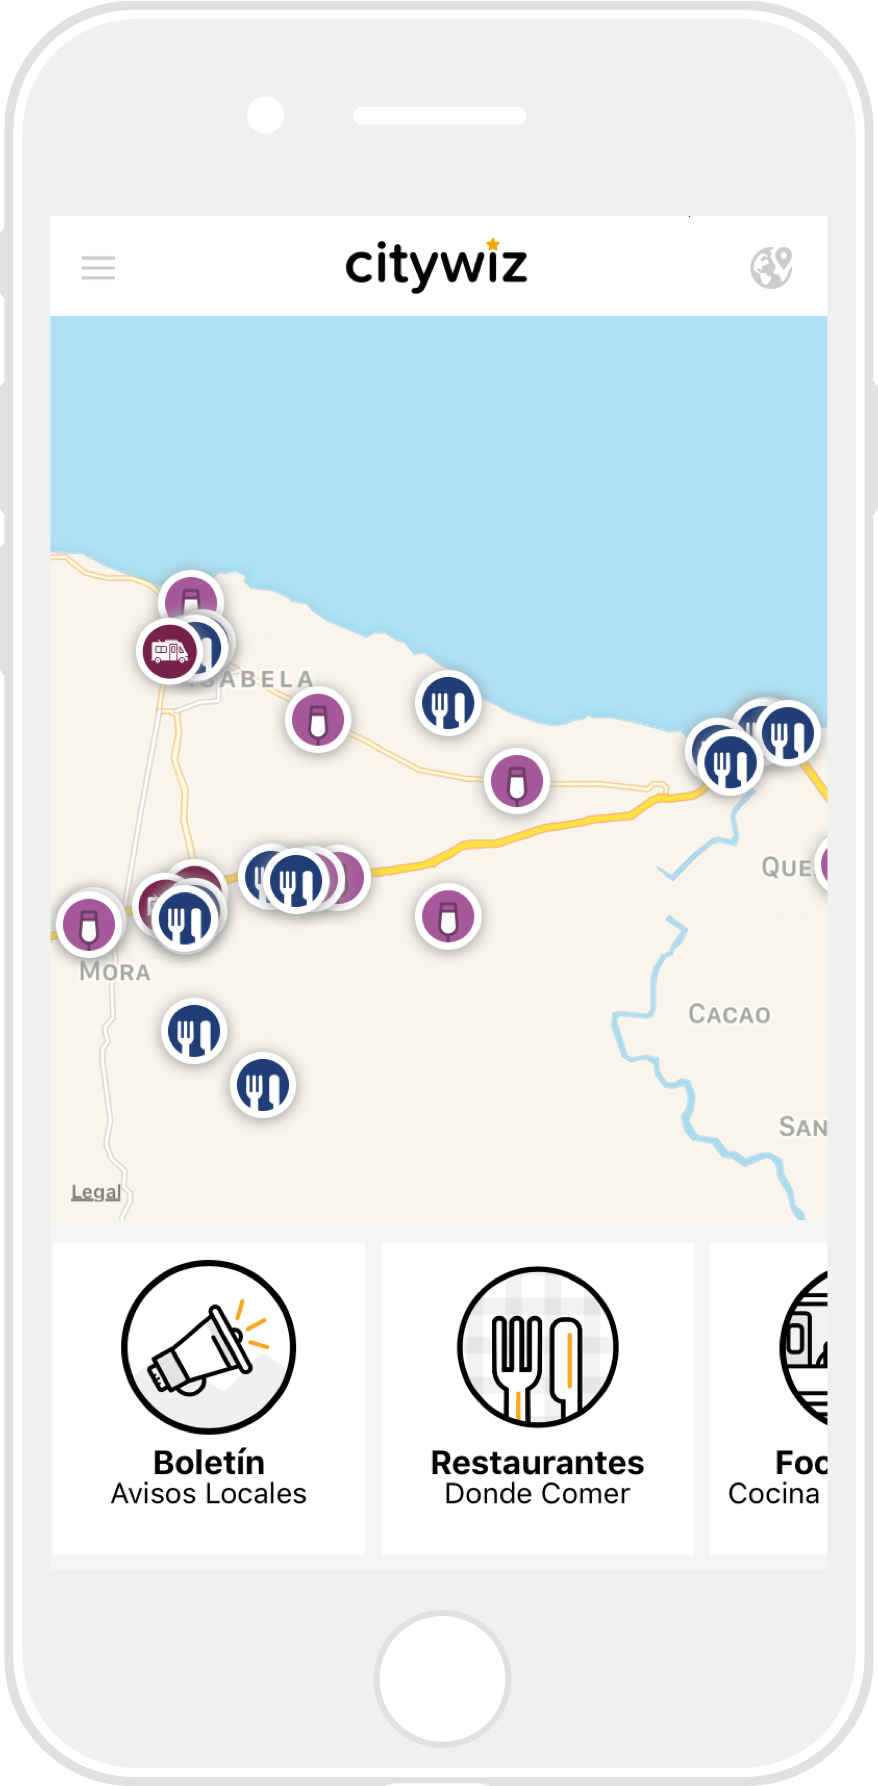
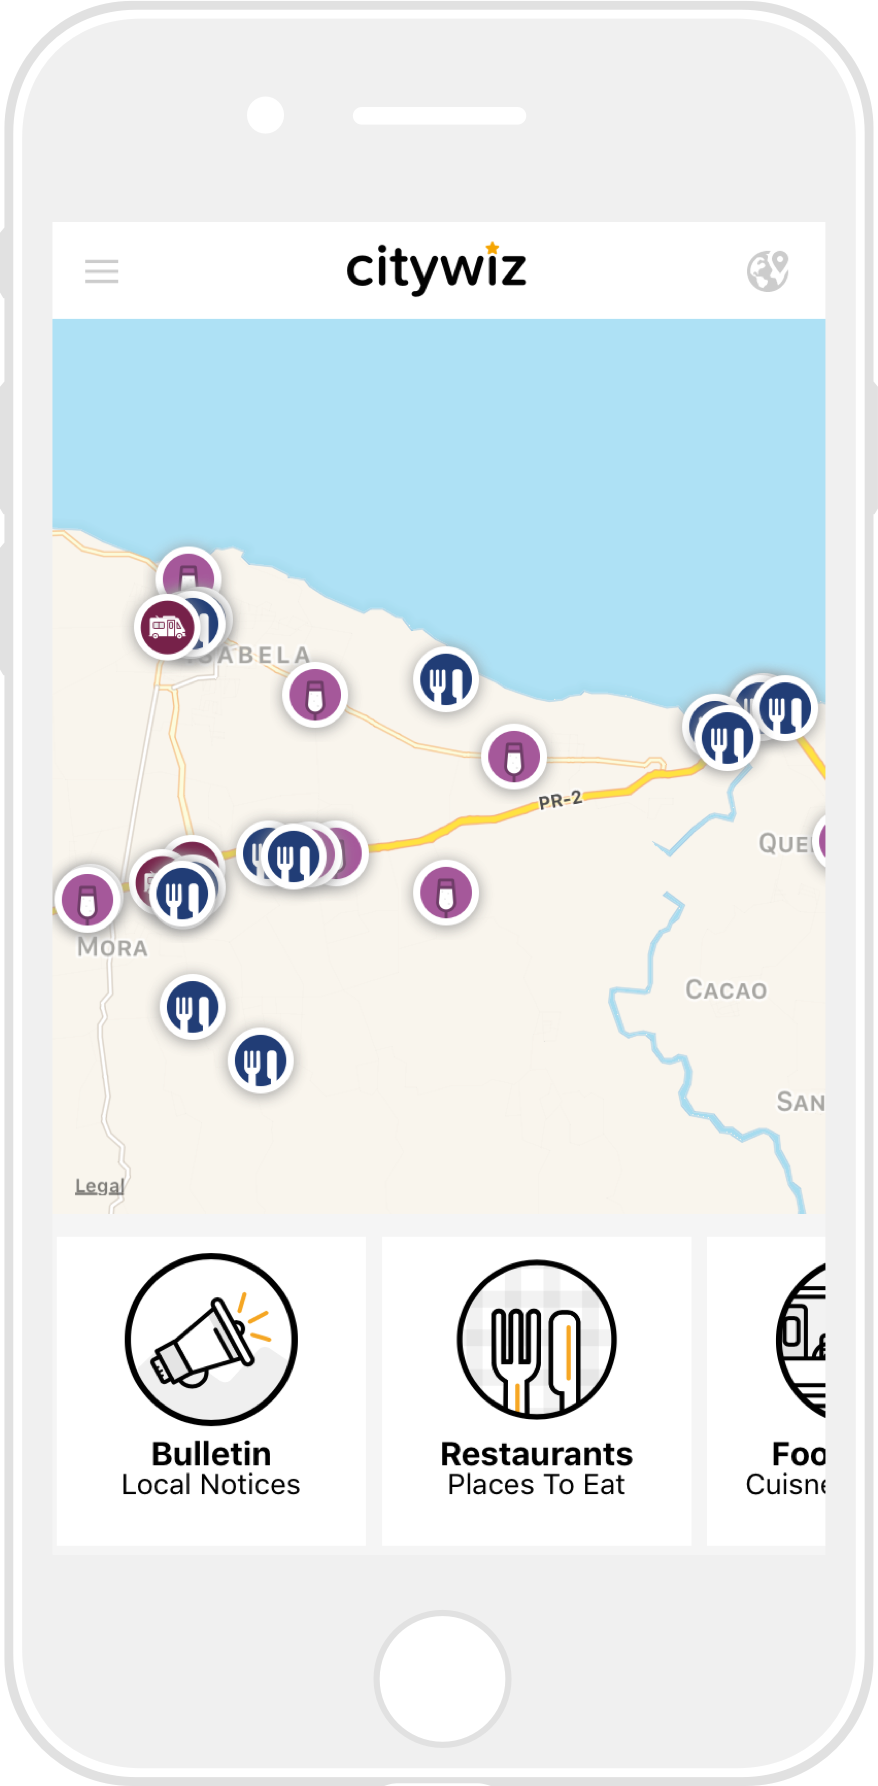
angular and translate

diff --git a/index.html b/index.html
@@ -37,14 +37,14 @@ branch.init('key_live_dpAFzF2PINv6LWCbfImrZphjFummdR1R');
 </script>
 </head>
 
-<body id="page-top">
+<body id="page-top" ng-app="App" ng-controller="appCtrl" >
 
     <nav id="mainNav" class="navbar navbar-default navbar-fixed-top">
         <div class="container">
             <!-- Brand and toggle get grouped for better mobile display -->
             <div class="navbar-header">
                 <button type="button" class="navbar-toggle collapsed" data-toggle="collapse" data-target="#bs-example-navbar-collapse-1">
-                    <span class="sr-only">Toggle navigation</span> Menu <i class="fa fa-bars"></i>
+                    <span class="sr-only">Toggle navigation</span><i class="fa fa-bars"></i>
                 </button>
                 <a style="padding:0 15px" class="navbar-brand page-scroll" href="#page-top"><span><img class="logoc" style="height:50px" src="img/logoheader.svg" alt="citywiz-logo"></span></a>
             </div>
@@ -60,6 +60,17 @@ branch.init('key_live_dpAFzF2PINv6LWCbfImrZphjFummdR1R');
                     </li>
                     <li>
                         <a class="page-scroll" href="#contact">Contact</a>
+                    </li>
+                    <li>
+                        <div class="switch">
+
+    <input id="language-toggle" class="check-toggle check-toggle-round-flat" type="checkbox" ng-model="data.cb2" aria-label="Switch 2" ng-true-value="'es'" ng-false-value="'en'" ng-change="changeLanguage(data.cb2)">
+    <label for="language-toggle"></label>
+
+    <span class="on">ENG</span>
+    <span class="off">ESP</span>
+
+  </div>
                     </li>
                 </ul>
             </div>
@@ -82,10 +93,11 @@ branch.init('key_live_dpAFzF2PINv6LWCbfImrZphjFummdR1R');
                             </div>
                             <div  style="clear:both">
                             <h1 style="font-size:25px;font-weight: 600">
-                                Su guia de descubrimiento local
+                                {{'LANGBOARD' | translate}}
                             </h1>
-                            <p style="font-size:24px">Te ayudamos a descubir y encontrar todo en tu ciudad, porque la vida es más fácil cuando sabes lo que te rodea.</p>
-                            <a href="#download" class="btn btn-outline btn-xl page-scroll">Get it for Free!</a>
+                            <p style="font-size:24px">{{'APPHERO2' | translate}}</p>
+                            <a href="#download" class="btn btn-outline btn-xl page-scroll">{{'DOWNAPP' | translate}}</a>
+
                             </div>
                         </div>
                     </div>
@@ -93,7 +105,7 @@ branch.init('key_live_dpAFzF2PINv6LWCbfImrZphjFummdR1R');
                 <div class="col-sm-3 col-sm-offset-2">
                     <div class="device-container animated fadeInRightBig" >
                     <div class="device-mockup iphone6 portrait white">
-                    <div class="iphne"></div>
+                    <div class="iphne {{data.cb2}}"></div>
     </div>
 
                        <!--<div class="device-mockup iphone6 portrait white">
@@ -327,8 +339,13 @@ branch.init('key_live_dpAFzF2PINv6LWCbfImrZphjFummdR1R');
     <!-- Plugin JavaScript -->
     <script src="https://cdnjs.cloudflare.com/ajax/libs/jquery-easing/1.3/jquery.easing.min.js"></script>
 
+    <!-- angular js -->
+    <script src="bower_components/angular/angular.min.js"></script>
+     <script src="bower_components/angular-translate/angular-translate.min.js"></script>
+
     <!-- Theme JavaScript -->
     <script src="js/new-age.min.js"></script>
+    <script src="js/app.js"></script>
     <script>
     $('.carousel').carousel({
   interval: 5000

diff --git a/css/new-age.css b/css/new-age.css
@@ -36,7 +36,7 @@ a:focus {
   color: #fcbd20;
 }
 .iphne{
-  background-image: url(../img/iphone-reg.png);position: absolute;
+  position: absolute;
     top: 0;
     bottom: 0;
     left: 0;
@@ -45,6 +45,13 @@ a:focus {
     height: 100%;
     background-size: 100% 100%;
     background-repeat: no-repeat;
+    transition: all 0.35s;
+}
+.es{
+  background-image: url(../img/iphone-reg-es.png);
+}
+.en{
+  background-image: url(../img/iphone-reg.png);
 }
 hr {
   max-width: 100px;
@@ -158,6 +165,113 @@ h6.description{
 i.red{
     color:#BC0213;
 }
+.switch {
+  position: relative;
+  display: inline-block;
+  margin: 5px;
+}
+
+.switch > span {
+  position: absolute;
+  top: 10px;
+  pointer-events: none;
+  font-weight: bold;
+  font-size: 11px;
+  text-transform: uppercase;
+  text-shadow: 0 1px 0 rgba(0, 0, 0, .06);
+  width: 50%;
+  text-align: center;
+}
+
+input.check-toggle-round-flat:checked ~ .off {
+  color: #2b2b2b;
+}
+
+input.check-toggle-round-flat:checked ~ .on {
+  color: #2b2b2b;
+}
+
+.switch > span.on {
+  left: 0;
+  padding-left: 2px;
+  color: #2b2b2b;
+}
+
+.switch > span.off {
+  right: 0;
+  padding-right: 4px;
+  color: #2b2b2b;
+}
+
+.check-toggle {
+  position: absolute;
+  margin-left: -9999px;
+  visibility: hidden;
+}
+.check-toggle + label {
+  display: block;
+  position: relative;
+  cursor: pointer;
+  outline: none;
+  -webkit-user-select: none;
+  -moz-user-select: none;
+  -ms-user-select: none;
+  user-select: none;
+}
+
+input.check-toggle-round-flat + label {
+  padding: 2px;
+  width: 97px;
+  height: 34px;
+  background-color: #f0f0f0;
+  -webkit-border-radius: 60px;
+  -moz-border-radius: 60px;
+  -ms-border-radius: 60px;
+  -o-border-radius: 60px;
+  border-radius: 60px;
+}
+input.check-toggle-round-flat + label:before, input.check-toggle-round-flat + label:after {
+  display: block;
+  position: absolute;
+  content: "";
+}
+
+input.check-toggle-round-flat + label:before {
+  top: 2px;
+  left: 2px;
+  bottom: 2px;
+  right: 2px;
+  background-color: #f0f0f0;
+  -webkit-
+
+  -moz-border-radius: 60px;
+  -ms-border-radius: 60px;
+  -o-border-radius: 60px;
+  border-radius: 60px;
+}
+input.check-toggle-round-flat + label:after {
+  top: 4px;
+  left: 4px;
+  bottom: 4px;
+  width: 48px;
+  background-color: #f5a503;
+  -webkit-border-radius: 52px;
+  -moz-border-radius: 52px;
+  -ms-border-radius: 52px;
+  -o-border-radius: 52px;
+  border-radius: 52px;
+  -webkit-transition: margin 0.2s;
+  -moz-transition: margin 0.2s;
+  -o-transition: margin 0.2s;
+  transition: margin 0.2s;
+}
+
+input.check-toggle-round-flat:checked + label {
+}
+
+input.check-toggle-round-flat:checked + label:after {
+  margin-left: 44px;
+}
 .navbar-default {
   background-color: white;
   border-color: rgba(34, 34, 34, 0.05);
@@ -184,7 +298,6 @@ i.red{
   padding: 8px 10px;
 }
 .navbar-default .nav > li > a {
-  font-family: 'Lato', 'Helvetica', 'Arial', 'sans-serif';
   text-transform: uppercase;
   letter-spacing: 2px;
   font-size: 11px;
@@ -266,7 +379,7 @@ header {
 }
 header .header-content {
   text-align: center;
-  padding: 150px 0 50px;
+  padding: 100px 0 50px;
   position: relative;
 }
 header .header-content .header-content-inner {
@@ -301,6 +414,7 @@ header .device-container .screen img {
     text-align: left;
     padding: 0;
     height: 100vh;
+    padding: 150px 0 50px;
   }
   header .header-content .header-content-inner {
     max-width: none;

diff --git a/js/app.js b/js/app.js
@@ -1,0 +1,27 @@
+var App = angular.module('App', ['pascalprecht.translate']);
+
+App.controller('appCtrl', function ($scope,$timeout,  $window,$translate) {
+  $scope.helloworld = "hey! hello world!";
+  $scope.data = {
+  cb2: 'en'
+};
+   $scope.changeLanguage = function (key) {
+    $translate.use(key);
+  };
+
+
+});
+App.config(['$translateProvider', function ($translateProvider) {
+        $translateProvider.translations('en', {
+            LANGBOARD: "Your local discovery guide",
+            DOWNAPP: "Get it for free!",
+            APPHERO2: "We help you discover and find everything in your city, because life it's easier when you know what's around you.",
+        })
+        .translations('es', {
+            LANGBOARD: "Su guía de descubrimiento local",
+            DOWNAPP: "¡Descargar gratis!",
+            APPHERO2: "Te ayudamos a descubir y encontrar todo en tu ciudad, porque la vida es más fácil cuando sabes lo que te rodea.",
+
+        });
+$translateProvider.preferredLanguage('en');
+}]);

diff --git a/js/new-age.min.js b/js/new-age.min.js
@@ -4,3 +4,8 @@
  * Licensed under MIT (https://github.com/BlackrockDigital/startbootstrap/blob/gh-pages/LICENSE)
  */
 !function(t){"use strict";t("a.page-scroll").bind("click",function(a){var o=t(this);t("html, body").stop().animate({scrollTop:t(o.attr("href")).offset().top-50},1250,"easeInOutExpo"),a.preventDefault()}),t("body").scrollspy({target:".navbar-fixed-top",offset:100}),t(".navbar-collapse ul li a").click(function(){t(".navbar-toggle:visible").click()}),t("#mainNav").affix({offset:{top:50}})}(jQuery);
+$(document).click(function(e) {
+    if (!$(e.target).is('a')) {
+        $('.collapse').collapse('hide');
+    }
+});
